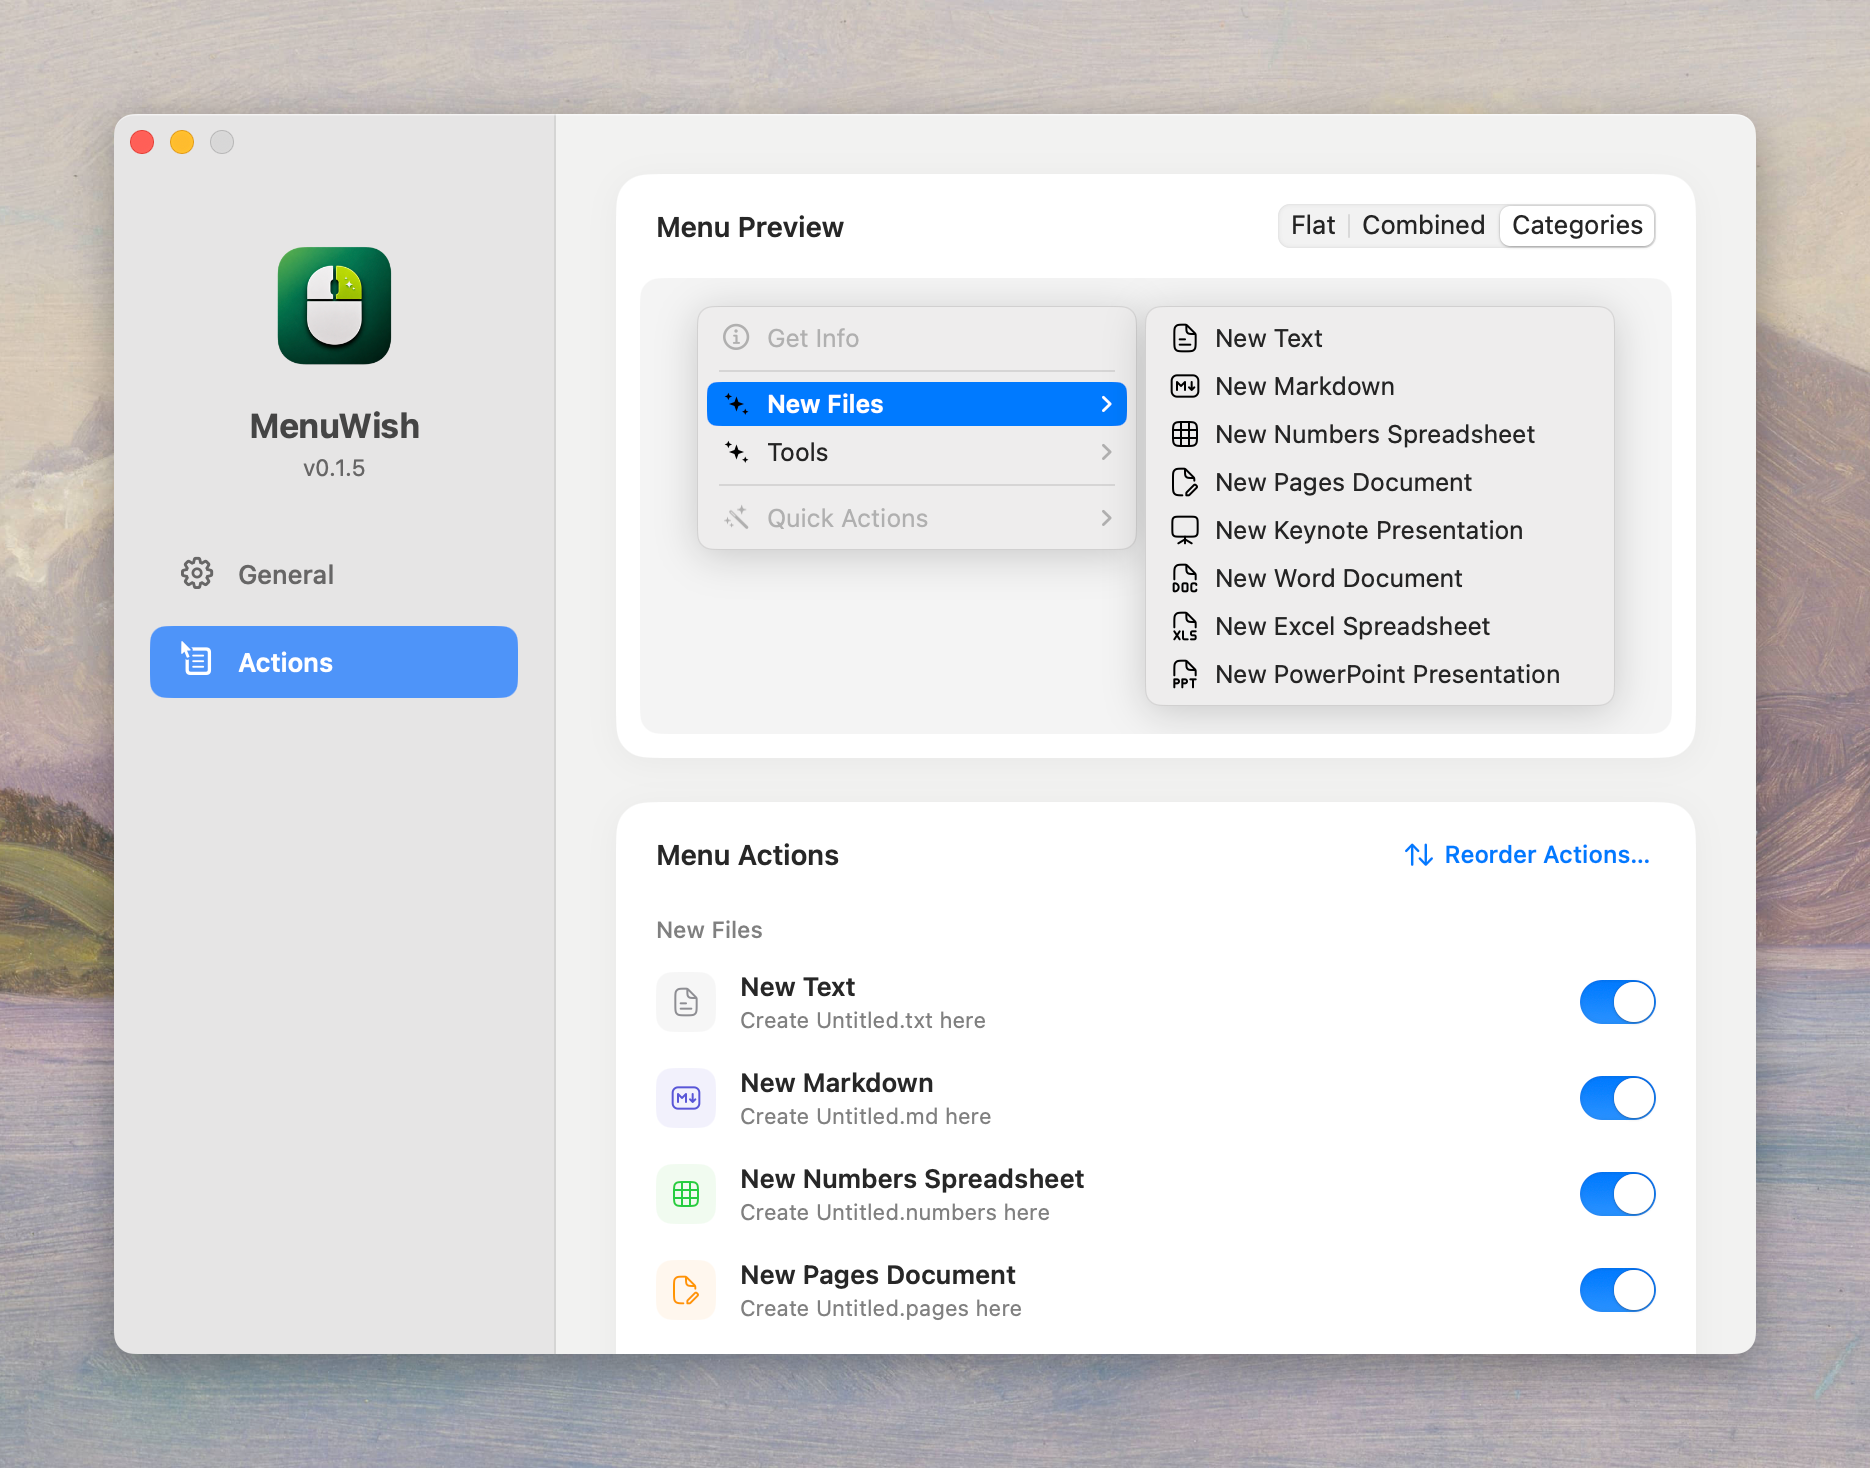
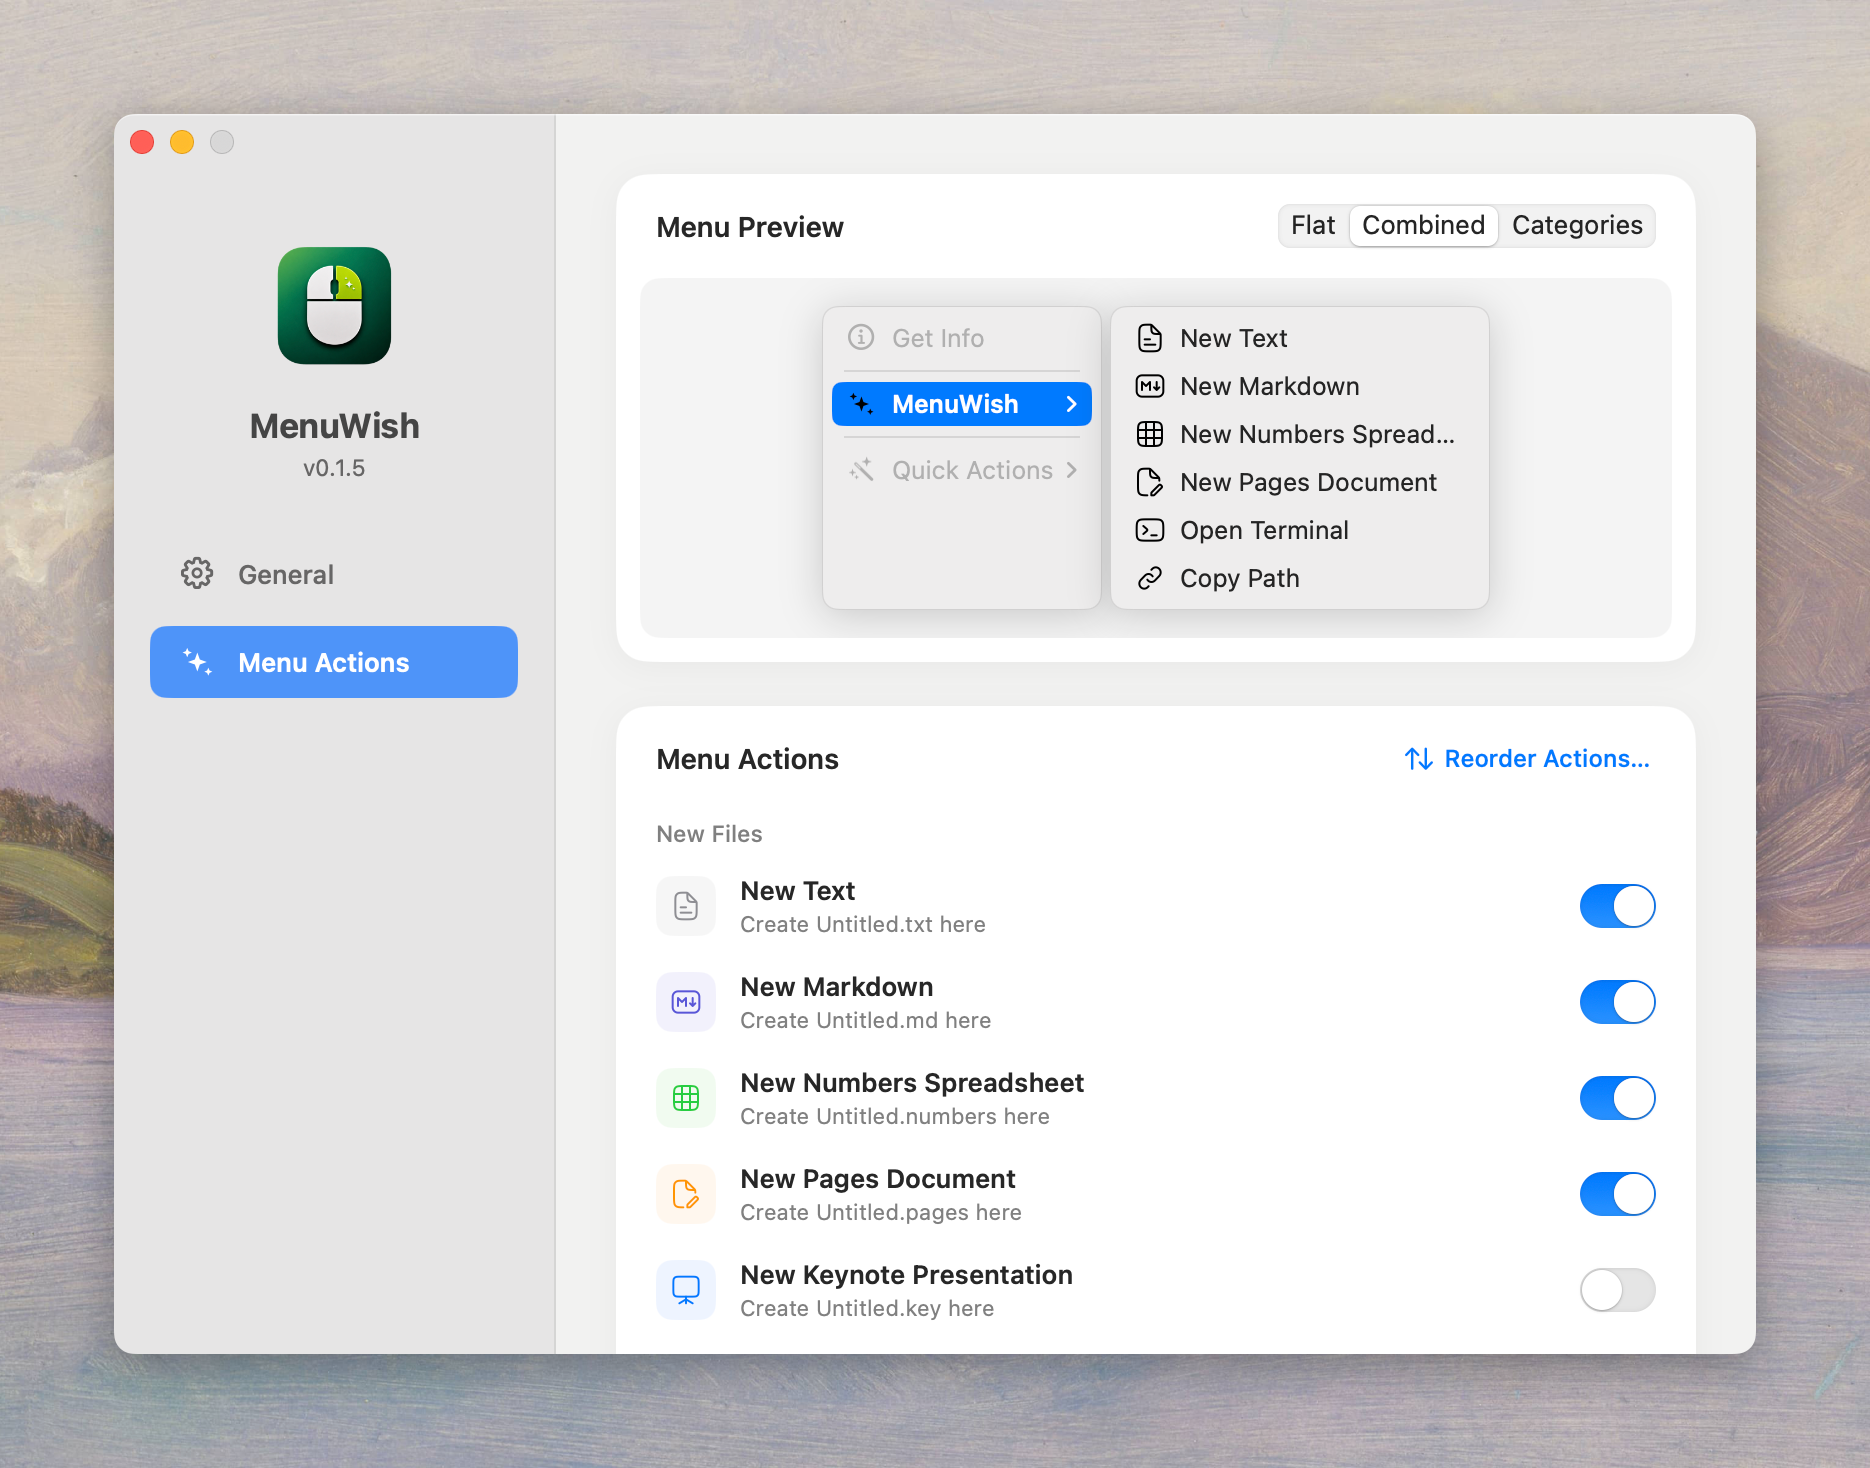
chore(release): 更新菜单功能名称与图标并升级至 0.1.6

diff --git a/MenuWish/AppDelegate.swift b/MenuWish/AppDelegate.swift
@@ -575,7 +575,15 @@ final class AppDelegate: NSObject, NSApplicationDelegate {
 
             for subview in button.subviews {
                 if let imageView = subview as? NSImageView {
-                    imageView.contentTintColor = isSelected ? sidebarSelectedForegroundColor : .secondaryLabelColor
+                    let foreground: NSColor = isSelected ? sidebarSelectedForegroundColor : .secondaryLabelColor
+                    if buttonTab == .actions {
+                        imageView.effectiveAppearance.performAsCurrentDrawingAppearance {
+                            imageView.image = MenuWishAssets.image(named: "sparkles",
+                                size: NSSize(width: 20, height: 20), tint: foreground)
+                        }
+                    }
+                    imageView.contentTintColor = foreground
+                    imageView.setAccessibilityLabel(sidebarTitle(for: buttonTab))
                 } else if let label = subview as? NSTextField {
                     label.textColor = isSelected ? sidebarSelectedForegroundColor : .secondaryLabelColor
                     label.font = .systemFont(ofSize: 13, weight: isSelected ? .semibold : .medium)
@@ -627,7 +635,7 @@ final class AppDelegate: NSObject, NSApplicationDelegate {
         brandStack.translatesAutoresizingMaskIntoConstraints = false
 
         let generalButton = sidebarNavigationButton(symbol: "gearshape", title: sidebarTitle(for: .general), tab: .general)
-        let actionsButton = sidebarNavigationButton(symbol: "contextualmenu.and.cursorarrow", title: sidebarTitle(for: .actions), tab: .actions)
+        let actionsButton = sidebarNavigationButton(symbol: "sparkles", title: sidebarTitle(for: .actions), tab: .actions)
 
         let navStack = NSStackView(views: [generalButton, actionsButton])
         navStack.orientation = .vertical
@@ -664,7 +672,7 @@ final class AppDelegate: NSObject, NSApplicationDelegate {
         case .general:
             return AppText.localized("通用", "General")
         case .actions:
-            return AppText.localized("快捷功能", "Actions")
+            return AppText.localized("菜单功能", "Menu Actions")
         }
     }
 
@@ -678,7 +686,9 @@ final class AppDelegate: NSObject, NSApplicationDelegate {
         button.layer?.cornerCurve = .continuous
 
         let icon = NSImageView()
-        icon.image = NSImage(systemSymbolName: symbol, accessibilityDescription: title)
+        icon.image = MenuWishAssets.image(named: symbol, size: NSSize(width: 20, height: 20))
+            ?? NSImage(systemSymbolName: symbol, accessibilityDescription: title)
+        icon.setAccessibilityLabel(title)
         icon.symbolConfiguration = .init(pointSize: 15, weight: .semibold)
         icon.contentTintColor = .secondaryLabelColor
         icon.translatesAutoresizingMaskIntoConstraints = false
@@ -938,7 +948,7 @@ final class AppDelegate: NSObject, NSApplicationDelegate {
         iconView.contentTintColor = .controlAccentColor
         iconView.translatesAutoresizingMaskIntoConstraints = false
 
-        let titleLabel = NSTextField(labelWithString: AppText.localized("调整快捷功能顺序", "Reorder Quick Actions"))
+        let titleLabel = NSTextField(labelWithString: AppText.localized("调整菜单功能顺序", "Reorder Menu Actions"))
         titleLabel.font = .systemFont(ofSize: 15.5, weight: .bold)
         titleLabel.textColor = .labelColor
         titleLabel.translatesAutoresizingMaskIntoConstraints = false

diff --git a/README.md b/README.md
@@ -47,10 +47,10 @@
   <img src="docs/images/general-zh-CN.webp" alt="MenuWish 通用界面" width="820">
 </p>
 
-### 快捷功能与分类预览
+### 菜单功能与分类预览
 
 <p align="center">
-  <img src="docs/images/actions-zh-CN.webp" alt="MenuWish 快捷功能界面" width="820">
+  <img src="docs/images/actions-zh-CN.webp" alt="MenuWish 菜单功能界面" width="820">
 </p>
 
 ## 系统要求
@@ -96,7 +96,7 @@ open build/Build/Products/Release/MenuWish.app
 
 ## 说明
 
-- 当前版本：`0.1.5`。
+- 当前版本：`0.1.6`。
 - iWork 文件使用内置原生模板创建，无需启动对应应用；打开和编辑需要对应应用。模板由 26.3.1 创建，旧版兼容性未验证。
 - Word、Excel 和 PowerPoint 文件分别使用 `.docx`、`.xlsx`、`.pptx` 格式，可由 Microsoft Office 或 WPS 打开。
 - 新建办公文件使用内置空白模板，无需安装或启动办公软件。Word 为一页空白文档，Excel 为一个空白工作表，PowerPoint 为一张 16:9 空白幻灯片；双击时使用系统默认应用打开。

diff --git a/README.en.md b/README.en.md
@@ -46,7 +46,7 @@ Make the menu your own:
 </p>
 
 <p align="center">
-  <img src="docs/images/actions-en.webp" alt="MenuWish actions settings" width="820">
+  <img src="docs/images/actions-en.webp" alt="MenuWish menu actions settings" width="820">
 </p>
 
 ## Requirements
@@ -92,7 +92,7 @@ Action switches are unavailable until authorized, then restore default or saved 
 
 ## Notes
 
-- Current version: `0.1.5`.
+- Current version: `0.1.6`.
 - Creating iWork files does not launch the corresponding app; opening and editing requires Numbers, Pages, or Keynote. Templates were created with version 26.3.1; compatibility with older iWork versions is not yet verified.
 - Word, Excel, and PowerPoint files use `.docx`, `.xlsx`, and `.pptx`, respectively, and can be opened with Microsoft Office or WPS.
 - Office files are created from bundled blank templates without installing or launching an office app. Word starts with one blank page, Excel with one empty worksheet, and PowerPoint with one blank 16:9 slide. Double-clicking opens the file in the system's default app.

diff --git a/Shared/MenuIcons/README.md b/Shared/MenuIcons/README.md
@@ -38,3 +38,5 @@ build/finder-icon-checks build/Build/Products/Release/MenuWishFinderExtension.ap
 ```
 
 These checks do not simulate Finder highlight backgrounds or replace visual theme testing.
+
+The Menu Actions sidebar item reuses the same MenuWish sparkle brand mark as the Finder parent menu, rendered at 20 pt with the selected and unselected sidebar colors.

diff --git a/docs/release-notes-0.1.6.md b/docs/release-notes-0.1.6.md
@@ -1,0 +1,7 @@
+# MenuWish v0.1.6
+
+- 更新菜单栏名称和图标，统一使用体验。
+
+---
+
+- Updated the sidebar name and icon for a consistent experience.
